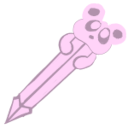
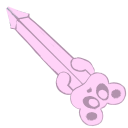
Change cursor so it's more intuitive

diff --git a/script.js b/script.js
@@ -36,8 +36,6 @@ function createSketchPad (number) {
 				};
 		
 				function eraseOnDblClick () {
-					container.classList.remove('drawingActive');
-					container.classList.add('eraser');
 					if (cell.classList.contains('draw') !== false) {
 						cell.style.background = 'none';
 						}
@@ -56,6 +54,8 @@ function createSketchPad (number) {
 					});
 		
 				container.addEventListener('dblclick', () => {
+					container.classList.remove('drawingActive');
+					container.classList.add('eraser');
 					cell.onpointerover = () => eraseOnDblClick();
 					});
 	};

diff --git a/style.css b/style.css
@@ -154,7 +154,7 @@ body {
 }
 
 .eraser {
-    cursor: URL('eraser-bear.png'), pointer;
+    cursor: URL('eraser-bear-1.png'), pointer;
 }
 
 
@@ -162,6 +162,7 @@ body {
     margin: 0;
     padding: 4em;
     padding-top: 1em;
+    padding-bottom: 1em;
     position: fixed;
     top: 38.4%;
     left: 49.3%;
